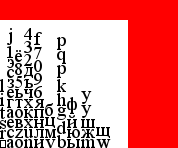
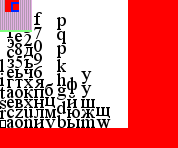
Bitmap;
mathLib fix

diff --git a/GameMath.cpp b/GameMath.cpp
@@ -256,7 +256,7 @@ void Rectangle::Offset( int x, int y )
 	pos.Offset(x, y);
 }
 
-const Rectangle& Rectangle::operator=( const Rectangle& r )
+Rectangle& Rectangle::operator=( const Rectangle& r )
 {
 	pos = r.pos;
 	size = r.size;
@@ -273,7 +273,7 @@ const bool Rectangle::operator!=( const Rectangle& r ) const
 	return pos != r.pos || size != r.size;
 }
 
-const Rectangle Rectangle::Intersect( const Rectangle &r ) const
+Rectangle Rectangle::Intersect( const Rectangle &r ) const
 {
 	if( !IntersectsWith(r) )
 		return Rectangle();
@@ -286,18 +286,18 @@ const Rectangle Rectangle::Intersect( const Rectangle &r ) const
 
 bool Rectangle::IntersectsWith( const Rectangle &r ) const
 {
-	return Contains(r.pos) && r.Contains(pos);
+	return Contains(r.pos) || r.Contains(pos);
 }
 
 
 const Rectangle FromLTRB( const Point &LT, const Point &RB )
 {
-	return Rectangle(LT.x, LT.y, RB.x, RB.y);
+	return Rectangle(LT.x, LT.y, RB.x - LT.x, RB.y - LT.y);
 }
 
 const Rectangle FromLTRB( int LTx, int LTy, int RBx, int RBy )
 {
-	return Rectangle(LTx, LTy, RBx, RBy);
+	return Rectangle(LTx, LTy, RBx - LTx, RBy - LTy);
 }
 
 

diff --git a/Game.cpp b/Game.cpp
@@ -272,7 +272,12 @@ int Game::Run()
 	
 
 	Bitmap1 b1("atlas.png");
+	Bitmap1 b2("img12.png");
 	b1.Inflate(gm::Size(50, 20), gm::Color(0xFF0000FF));
+	//b1.Insert(b2, gm::Rectangle(5,5,20,20), gm::Point(10, 20));
+	//b1.Insert(b2, gm::Rectangle(5,5,20,20));
+	//b1.Insert(b2, gm::Point(10, 20));
+	b1.Insert(b2);
 	b1.Save("b1.png");
 
 	int size = 0;
